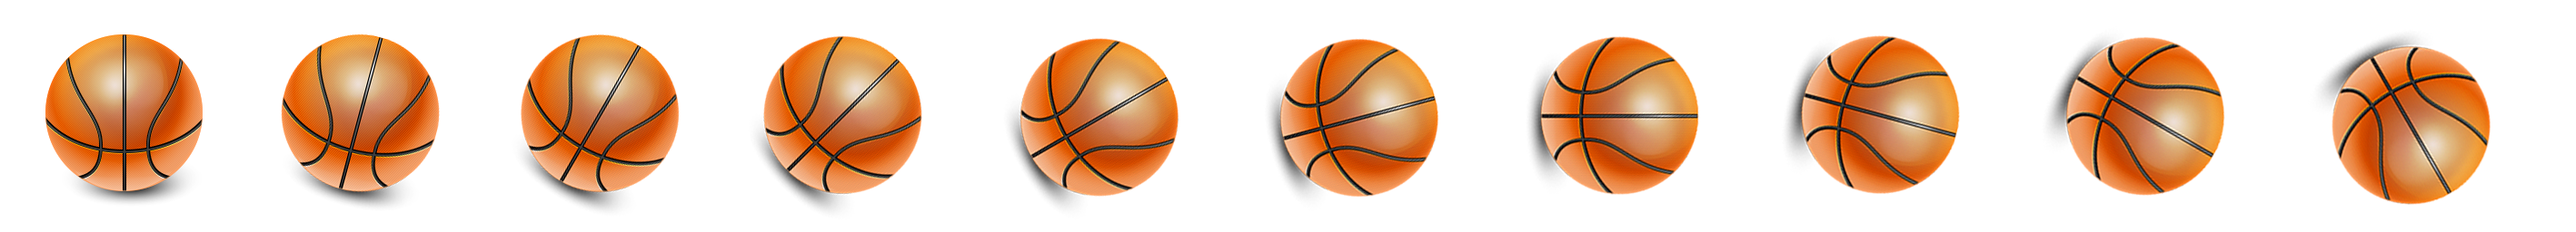
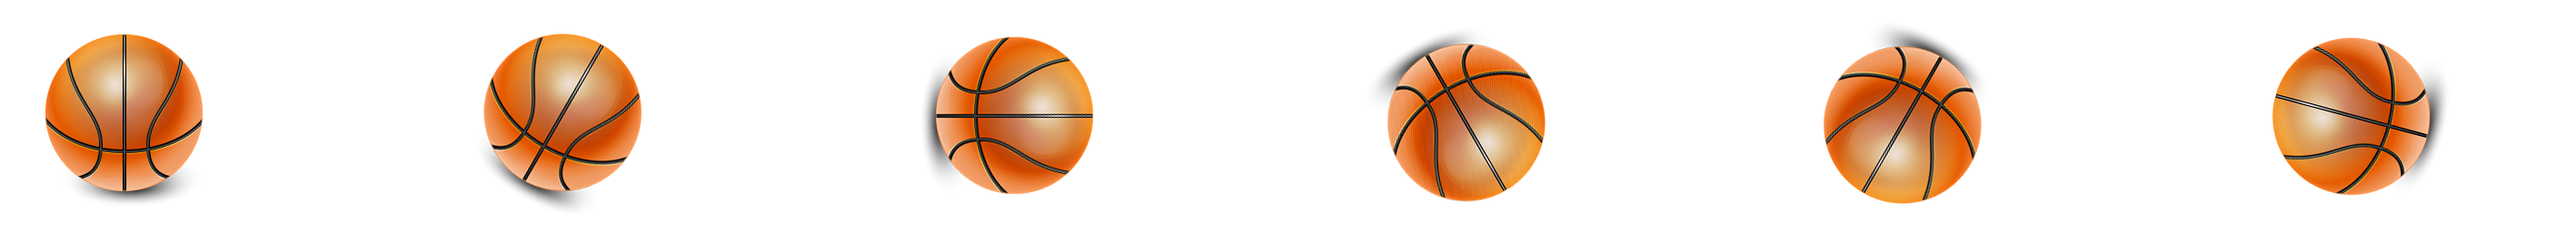
weel12classWorkFinal

diff --git a/class/week12/animation/animation.js b/class/week12/animation/animation.js
@@ -157,7 +157,38 @@ var spriteImages = [{
     "width": 4800,
     "height": 200,
     "name": "cat"
-  }
+  },
+
+
+
+  {
+    "spriteMapUrl": "https://sluu01.github.io/class/week12/animation/images/iceCream2.png",
+    "numFrames": 5,
+    "width": 2500,
+    "height": 1259,
+    "name": "dessert"
+  },
+
+
+{
+    "spriteMapUrl":"https://biancabottos.github.io/class/week12/animation/images/sun.png",
+    "numFrames": 6,
+    "width": 500,
+    "height": 100,
+    "name": "sun"
+  },
+
+  {
+    "spriteMapUrl": "images/bball.png",
+    "numFrames": 5,
+    "width": 1487,
+    "height": 256,
+    "name": "basketball"
+  },
+
+
+
+
 ];
 var animations = []; //an array to hold the currently existing sprite obects
 var maxAnimations = spriteImages.length; //how many animations we want on the screen at any one time

diff --git a/index.html b/index.html
@@ -126,6 +126,8 @@
                                         <li><a target="_blank" href="class/week10/lottery.html">Class Week 10</a></li>
                                         <li><a target="_blank" href="presentations/week11/upload.html">Presentation Week 11</a></li>
                                         <li><a target="_blank" href="class/week11/index.html">Class Week 11</a></li>
+                                        <li><a target="_blank" href="presentations/week12/">Presentation Week 12</a></li>
+                                        <li><a target="_blank" href="class/week12/animation.html">Class Week 12</a></li>
                                     </ul>
                                 </li>
                             </ul>
